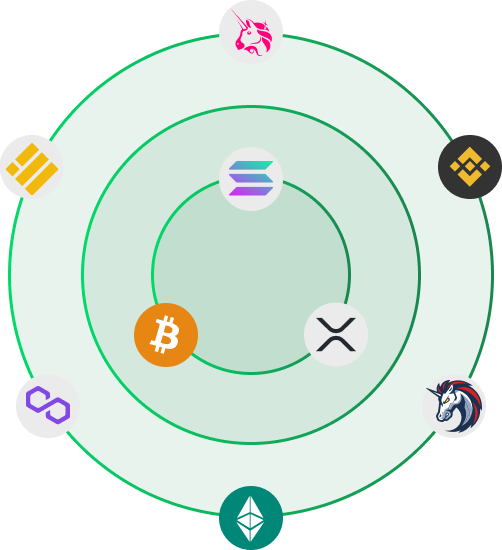
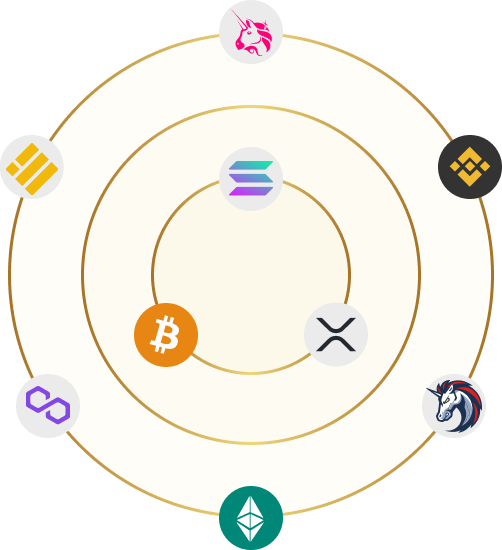
theame

diff --git a/src/styles/index.css b/src/styles/index.css
@@ -52,7 +52,7 @@ input:focus {
   z-index: 1;
   /* background-color:#122382!important; */
   /* background: linear-gradient(to right, #0036ff 0%, #000b4f 100%)!important; */
-  background-image: linear-gradient(to right, #1A874E, #00DA68,#1A874E) !important;
+  background-image: linear-gradient(to right, #A77327, #EFD67B,#A77327) !important;
   color: #000 !important;
   font-size: 16px;
   font-weight: 500;
@@ -105,7 +105,7 @@ input:focus {
   background-color: #181818 !important;
 }
 .bg-dark-750 {
-  background-image: linear-gradient(to right, #1A874E, #00DA68,#1A874E) !important; 
+  background-image: linear-gradient(to right, #A77327, #EFD67B,#A77327) !important; 
   color: black !important;
 }
 .bg-dark-1000 {
@@ -179,7 +179,7 @@ input:focus {
 }
 .iGmWvA, .ejtIWl{
   background:#000!important;
-  border-top: 2px solid #1A874E !important;
+  border-top: 2px solid #A77327 !important;
 }
 .text-secondary {
   color: black !important;
@@ -220,7 +220,7 @@ input:focus {
 
 .flex.items-center.rounded.bg-dark-600.space-x-3{
   background-color: transparent !important;
-  border: 3px solid #00DA68 !important;
+  border: 3px solid #A77327 !important;
   margin-bottom: 10px !important;
 }
 .flex-col.text-high-emphesis.text-base.font-medium.font-bold.text-high-emphesis {
@@ -229,7 +229,7 @@ input:focus {
   /* border: 2px solid #000b4f !important; */
   font-size: 20pc;
   border-radius: 10px !important;
-  background-image: linear-gradient(to right, #1A874E, #00DA68,#1A874E) !important;
+  background-image: linear-gradient(to right, #A77327, #EFD67B,#A77327) !important;
 }
 
 .font-medium {
@@ -264,7 +264,7 @@ background-color: #000!important;
   color: #000 !important;
 }
 .sc-fOICqy.kUDAWB #swap-button{
-  background-image: linear-gradient(to right, #1A874E, #00DA68,#1A874E) !important;
+  background-image: linear-gradient(to right, #A77327, #EFD67B,#A77327) !important;
 } 
 
 .sc-box-shadow{
@@ -311,7 +311,7 @@ background-color: #000!important;
 }
 
 .sc-eAKXzc.idXFHj{
-  background-image: linear-gradient(to right, #1A874E, #00DA68,#1A874E) !important;
+  background-image: linear-gradient(to right, #A77327, #EFD67B,#A77327) !important;
   color:white!important;
 }
 
@@ -403,14 +403,14 @@ background-color: #000!important;
 }
 
 .text-sm.text-secondary.py-2.px-3{
-  background-image: linear-gradient(to right, #1A874E, #00DA68,#1A874E) !important;
+  background-image: linear-gradient(to right, #A77327, #EFD67B,#A77327) !important;
 
   /* background-color: #001070!important; */
   color:black;
 }
 
 .sc-htpNat.sc-ifAKCX.sc-gzVnrw.lhznlv .rounded-full {
-  background-image: linear-gradient(to right, #1A874E, #00DA68,#1A874E) !important;
+  background-image: linear-gradient(to right, #A77327, #EFD67B,#A77327) !important;
   /* background-color: #000b4f !important; */
   border-radius: 50% !important;
 }
@@ -419,11 +419,11 @@ background-color: #000!important;
   border-radius: 10px !important;
 }
 .sc-hrWEMg.iVKCkD {
-  border: 1px solid #00DA68 !important;
+  border: 1px solid #A77327 !important;
   border-radius: 5px !important;
 }
 .sc-kasBVs.iGmWvA, #pool-page{
-  border-top: 2px solid #1A874E !important;
+  border-top: 2px solid #B5A368 !important;
 }
 #pool-page{
   background-color: #000 !important;
@@ -497,7 +497,7 @@ iframe{
   display: none !important;
 }
 .elRDOC:hover{
-  background-color: #00DA68!important;
+  background-color: #A77327!important;
 }
 .gBTQyo {
   color:#fff!important;
@@ -559,12 +559,12 @@ color:#080808!important;
 }
 
 .kADbam{
-  background-image: linear-gradient(to right, #1A874E, #00DA68,#1A874E) !important;
+  background-image: linear-gradient(to right, #A77327, #EFD67B,#A77327) !important;
  border: none!important; 
  background-color: transparent !important;
 }
 .fWRHau{
-  background-image: linear-gradient(to right, #1A874E, #00DA68,#1A874E) !important;
+  background-image: linear-gradient(to right, #A77327, #EFD67B,#A77327) !important;
   background-color: none !important;
   border:none !important;
   
@@ -592,7 +592,7 @@ color:#080808!important;
 }
 
 .iCHfpt,.udsrm {
-  background-image: linear-gradient(to right, #1A874E, #00DA68,#1A874E) !important;
+  background-image: linear-gradient(to right, #A77327, #EFD67B,#A77327) !important;
   border:none !important;
   color:white !important;
   outline: none !important;
@@ -609,13 +609,13 @@ color:#080808!important;
 line-height: 0.5rem !important;;
 }
 .cEGchG:hover {
-  border: 1px solid #1A874E !important;
+  border: 1px solid #A77327 !important;
 }
 .kPnZCD:hover {
-  border: 1px solid #1A874E !important;
+  border: 1px solid #A77327 !important;
 }
 .gQbTBI:hover {
-  border: 1px solid #1A874E !important;
+  border: 1px solid #A77327 !important;
 }
 .fXUEJo{
   color:#fff !important;
@@ -623,7 +623,7 @@ line-height: 0.5rem !important;;
 }
 .sc-hMFtBS.sc-iGPElx.ldBRkH,.sc-gwVKww.sc-emmjRN.jvMfRv,.flex.flex-col.h-full.w-full.bg-dark-900.rounded.overflow-y-auto.p-6{
   background-color: black !important;
-    border: 2px solid #1A874E;
+    border: 2px solid #A77327;
     border-radius: 10px;
 }
 .bECgIR {
@@ -652,14 +652,14 @@ line-height: 0.5rem !important;;
   color:white !important;
 }
 .sc-htpNat.jkjxPR.sc-dnqmqq.sc-kGXeez.dVylHm{
-  background-image: linear-gradient(to right, #1A874E, #00DA68,#1A874E) !important;
+  background-image: linear-gradient(to right, #A77327, #EFD67B,#A77327) !important;
  border: none !important;
 }
 .jtZBVY{
   background-color: #000 !important;
 }
 .beBfdo:hover {
-  border: 1px solid #00DA68 !important;
+  border: 1px solid #A77327 !important;
 }
 .kADbam:focus{
   box-shadow: none !important;
@@ -678,7 +678,7 @@ line-height: 0.5rem !important;;
   padding: 20px;
   padding-right: 35px;
   overflow: hidden;
-  border:2px solid #1A874E !important;
+  border:2px solid #A77327 !important;
  
 }
 .css-1a92al5 {
@@ -691,7 +691,7 @@ line-height: 0.5rem !important;;
 }
 
 .ehqTwk {
-  background-image: linear-gradient(to right, #1A874E, #00DA68,#1A874E) !important;
+  background-image: linear-gradient(to right, #A77327, #EFD67B,#A77327) !important;
   color: #000;
 }
 

diff --git a/src/styles/homepage.css b/src/styles/homepage.css
@@ -32,7 +32,7 @@ body{
     max-width: 700px;
 }
 .common-btn{
-    background: linear-gradient(90deg, #00DA68 0%, #1A874E 100%);
+    background: linear-gradient(90deg, #A77327 0%, #EFD67B 49.79%, #A77327 100%);
     border-radius: 6px;
     padding: 12px 20px;
     text-align: center;
@@ -53,7 +53,7 @@ body{
     line-height: 20px;
     text-align: center;
     font-feature-settings: 'salt' on, 'liga' off;
-    background: linear-gradient(90deg, #00DA68 0%, #1A874E 100%);
+    background: linear-gradient(90deg, #A77327 0%, #EFD67B 49.79%, #A77327 100%);
     -webkit-background-clip: text;
     -webkit-text-fill-color: transparent;
     background-clip: text;
@@ -66,7 +66,7 @@ body{
     margin: 10px;
 }
 .box-banner-new {
-    background: linear-gradient(90deg, rgba(26, 135, 78, 0.1) 0%, rgba(26, 135, 78, 0) 100%) !important;
+    background: linear-gradient(90deg, rgba(239, 214, 123, 0.1) 0%, rgba(239, 214, 123, 0) 100%);
     border-radius: 12px;
     padding: 30px;
 }
@@ -78,7 +78,7 @@ body{
 
 
 .box-banner-new h3{
-    background: linear-gradient(90deg, #00DA68 0%, #1A874E 100%);
+    background: linear-gradient(90deg, #A77327 0%, #EFD67B 49.79%, #A77327 100%);
     -webkit-background-clip: text;
     -webkit-text-fill-color: transparent;
     background-clip: text;
@@ -102,7 +102,7 @@ body{
     width: 100%;
 }
 .common-heading{
-    background: linear-gradient(90deg, #00DA68 0%, #1A874E 100%);
+    background: linear-gradient(90deg, #A77327 0%, #EFD67B 49.79%, #A77327 100%);
     -webkit-background-clip: text;
     -webkit-text-fill-color: transparent;
     background-clip: text;
@@ -119,7 +119,7 @@ body{
     line-height: 32px;
 }
 .pickone-box{
-    background: linear-gradient(90deg, rgba(26, 135, 78, 0.1) 0%, rgba(26, 135, 78, 0) 100%) !important;
+    background: linear-gradient(90deg, rgba(239, 214, 123, 0.1) 0%, rgba(239, 214, 123, 0) 100%);
     border-radius: 12px;
     padding: 20px;
     min-height: 220px;
@@ -135,7 +135,7 @@ body{
     height: 60px;
     width: 60px;
     border-radius: 50%;
-    color: #00DA68;
+    color: #A77327;
     letter-spacing: 0.5px;
     display: block;
     text-align: center;
@@ -339,7 +339,7 @@ body{
 
 body.inner-swap-body .sc-box-shadow {
     box-shadow: none  !important;
-    border: 2px solid #00DA68;
+    border: 2px solid #A77327;
     border-radius: 10px !important;
     background-color: #0e0e0e !important;
 }
@@ -352,7 +352,7 @@ body.inner-swap-body .fXEza {
 }
 body.inner-swap-body .bcDZKy {
     background-color: #080808;
-    border: 2px solid #00DA68;
+    border: 2px solid #A77327;
     overflow: hidden;
     border-radius: 10px;
 }
@@ -423,7 +423,7 @@ body.inner-swap-body #swap-currency-input .bg-transparent.px-2.py-1.border-low-e
 body.inner-swap-body .rounded.bg-dark-800.pr-3 .bg-transparent.rounded-full.text-secondary.text-xs.font-medium.whitespace-nowrap {
     margin: 0 5px !important;
     background-color: #2f281c !important;
-    border: 1px solid #00DA68 !important;
+    border: 1px solid #A77327 !important;
 }
 
 body.inner-swap-body .css-68pfx3,
@@ -445,7 +445,7 @@ body.inner-swap-body .sc-cTjmhe.recipient-address-input.fFLAIU{
 align-items: center;
 }
 .flex.items-center.justify-center.rounded-md.text-center.text-secondary.text-base.font-medium.text-high-emphesis.bg-dark-900 {
-    background-image: linear-gradient(to right, #1A874E, #00DA68,#1A874E)  !important;
+    background-image: linear-gradient(to right, #A77327, #EFD67B,#A77327)  !important;
     color: #000 !important;
     font-weight: 700 !important;
 }
@@ -459,7 +459,7 @@ body.inner-swap-body .swap-header-outer.flex.justify-between.space-x-2 .bg-dark-
 }
 .yield-box-new .relative.h-full .flex.flex-col.items-center .flex.justify-between.w-full .items-center .text-lg.whitespace-nowrap {
     font-size: 32px !important;
-    background: linear-gradient(90deg, #00DA68 0%, #1A874E 100%);
+    background: linear-gradient(90deg, #A77327 0%, #EFD67B 49.79%, #A77327 100%);
     -webkit-background-clip: text;
     -webkit-text-fill-color: transparent;
     background-clip: text;
@@ -476,19 +476,19 @@ body.inner-swap-body .swap-header-outer.flex.justify-between.space-x-2 .bg-dark-
     color: #fff !important;
 }
 .yield-box-new .relative.h-full .space-y-4 .col-span-2.text-center .w-full.rounded.text-base.text-high-emphesis.px-4.py-3{
-    background-image: linear-gradient(to right, #1A874E, #00DA68,#1A874E)  !important;
+    background-image: linear-gradient(to right, #A77327, #EFD67B,#A77327)  !important;
     color: #000 !important;
     font-weight: 700 !important;
     border: none !important;
 }
 .yield-box-new .relative.h-full .space-y-4 .w-full.rounded.text-base.text-high-emphesis.px-4.py-3{
-    background-image: linear-gradient(to right, #1A874E, #00DA68,#1A874E)  !important;
+    background-image: linear-gradient(to right, #A77327, #EFD67B,#A77327)  !important;
     color: #000 !important;
     font-weight: 700 !important;
     border: none !important;
 }
 .grid.gap-4.grid-cols-1.px-4 .bg-dark-800.border-2.border-solid.border-gray-700{
-    background-image: linear-gradient(to right, #1A874E, #00DA68,#1A874E)  !important;
+    background-image: linear-gradient(to right, #A77327, #EFD67B,#A77327)  !important;
     color: #000 !important;
     font-weight: 700 !important;
     border: none !important;

diff --git a/src/theme/index.tsx b/src/theme/index.tsx
@@ -49,7 +49,7 @@ export function colors(darkMode: boolean): Colors {
         // backgrounds / greys
         bg1: darkMode ? '#202231' : '#FFFFFF',
         bg2: darkMode ? 'rgb(22, 21, 34)' : '#F7F8FA',
-        bg3: darkMode ? '#1A874E' : '#00DA68',
+        bg3: darkMode ? '#A77327' : '#A77327',
         bg4: darkMode ? '#3a506f' : '#CED0D9',
         bg5: darkMode ? '#6C7284' : '#888D9B',
 
